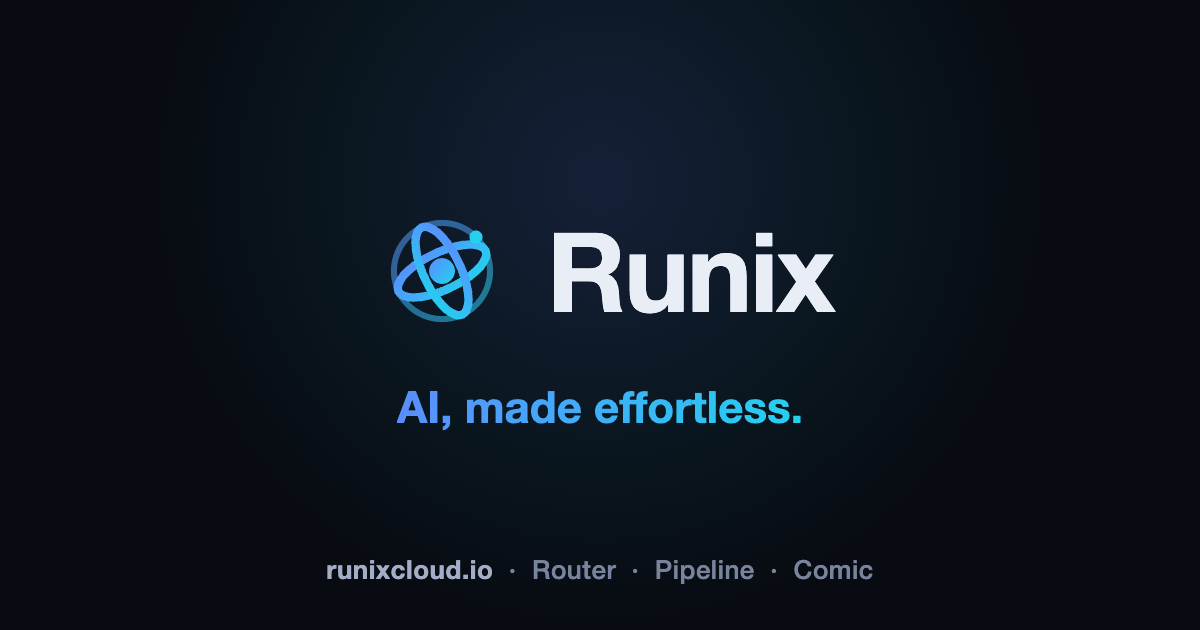
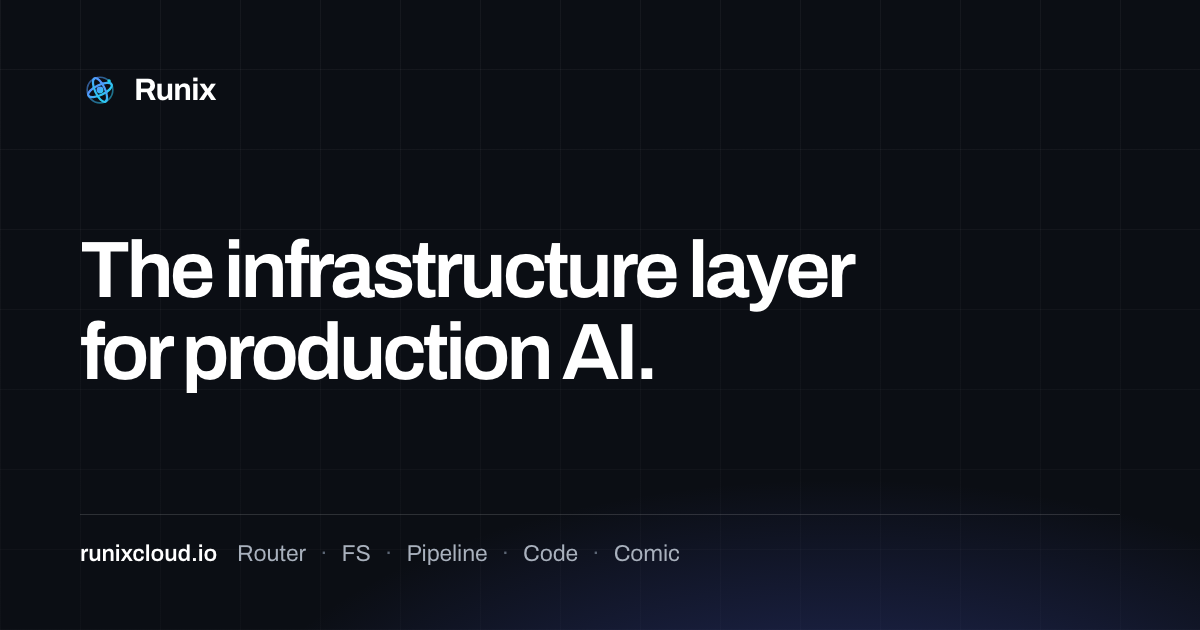
brand cover with the new headline and all five products; five storage terms in the glossary
The home page's share card still said "AI, made effortless." and listed
three products. The glossary gains AI file system, POSIX semantics,
multi-tier cache, CSI driver and KV cache offload, each with how to check
it and the mistake that is easy to make.

Changed region(s): [[0.0617, 0.0905, 0.7092, 0.6937], [0.0617, 0.8444, 1.0, 1.0], [0.0617, 0.1206, 0.185, 0.181]]

diff --git a/glossary.html b/glossary.html
@@ -143,6 +143,41 @@
       "description": "Recording enough about each request — latency, tokens, model, outcome, request id — to answer questions after the fact, without hoarding content you should not keep.",
       "url": "https://runixcloud.io/glossary#observability",
       "inDefinedTermSet": "https://runixcloud.io/glossary"
+    },
+    {
+      "@type": "DefinedTerm",
+      "name": "AI file system",
+      "description": "A file system built for how AI workloads read data: many readers, large datasets and frequent checkpoints. It is usually layered over object storage with a cache in front, so data is read through a path instead of fetched object by object.",
+      "url": "https://runixcloud.io/glossary#ai-file-system",
+      "inDefinedTermSet": "https://runixcloud.io/glossary"
+    },
+    {
+      "@type": "DefinedTerm",
+      "name": "POSIX semantics",
+      "description": "The file behaviour code written for a local disk expects: open, read, write, seek, atomic rename, directory listing and permissions.",
+      "url": "https://runixcloud.io/glossary#posix-semantics",
+      "inDefinedTermSet": "https://runixcloud.io/glossary"
+    },
+    {
+      "@type": "DefinedTerm",
+      "name": "Multi-tier cache",
+      "description": "A cache spread over memory, SSD and HDD on the worker nodes, which promotes hot data to faster tiers and falls back to the bucket for anything it does not hold.",
+      "url": "https://runixcloud.io/glossary#multi-tier-cache",
+      "inDefinedTermSet": "https://runixcloud.io/glossary"
+    },
+    {
+      "@type": "DefinedTerm",
+      "name": "CSI driver",
+      "description": "The Kubernetes Container Storage Interface plugin that turns a PersistentVolumeClaim into a volume mounted inside a pod.",
+      "url": "https://runixcloud.io/glossary#csi-driver",
+      "inDefinedTermSet": "https://runixcloud.io/glossary"
+    },
+    {
+      "@type": "DefinedTerm",
+      "name": "KV cache offload",
+      "description": "Moving an LLM's attention key-value cache out of GPU memory, into host memory or a shared storage tier, so a prompt prefix computed once can be reused instead of recomputed.",
+      "url": "https://runixcloud.io/glossary#kv-cache-offload",
+      "inDefinedTermSet": "https://runixcloud.io/glossary"
     }
   ]
 }
@@ -210,15 +245,20 @@
 <nav class="doc-toc" aria-labelledby="lookup-toc">
   <p id="lookup-toc" class="toc-title">Jump to a term</p>
   <ul>
+    <li><a href="#ai-file-system">AI file system</a></li>
     <li><a href="#blast-radius">Blast radius</a></li>
     <li><a href="#circuit-breaker">Circuit breaker</a></li>
     <li><a href="#cost-attribution">Cost attribution</a></li>
+    <li><a href="#csi-driver">CSI driver</a></li>
     <li><a href="#deduplication">Deduplication</a></li>
     <li><a href="#failover">Failover</a></li>
+    <li><a href="#kv-cache-offload">KV cache offload</a></li>
     <li><a href="#llm-gateway">LLM gateway</a></li>
     <li><a href="#llm-router">LLM router</a></li>
+    <li><a href="#multi-tier-cache">Multi-tier cache</a></li>
     <li><a href="#observability">Observability (for LLM traffic)</a></li>
     <li><a href="#pii-masking">PII masking</a></li>
+    <li><a href="#posix-semantics">POSIX semantics</a></li>
     <li><a href="#prompt-caching">Prompt caching</a></li>
     <li><a href="#rate-limit">Rate limit (429)</a></li>
     <li><a href="#retry-budget">Retry budget</a></li>
@@ -317,6 +357,36 @@
 <p><strong>How you would check it.</strong> Pick a past incident and check whether the logs you keep would have explained it.</p>
 <p><strong>Where people go wrong.</strong> Logging whole prompts and responses by default. That is a data-retention liability, and it is rarely the field you needed.</p>
 <p class="g-more"><a href="/blog/llm-observability">What to Log for LLM Traffic, and What Not To</a></p>
+
+<h2 id="ai-file-system">AI file system</h2>
+<p>A file system built for how AI workloads read data: many readers, large datasets and frequent checkpoints. It is usually layered over object storage with a cache in front, so data is read through a path instead of fetched object by object.</p>
+<p><strong>How you would check it.</strong> Point an existing data loader at the mount without changing its code, then compare the second epoch's read time with the first. The cache should make the difference visible.</p>
+<p><strong>Where people go wrong.</strong> Treating it as a replacement for the bucket. The bucket stays the durable copy; the file system is how the data is read.</p>
+<p class="g-more"><a href="/fs">The AI file system for object storage</a></p>
+
+<h2 id="posix-semantics">POSIX semantics</h2>
+<p>The file behaviour code written for a local disk expects: open, read, write, seek, atomic rename, directory listing and permissions.</p>
+<p><strong>How you would check it.</strong> Run an atomic rename and a git status against the mount. Both depend on semantics that plain object storage does not have.</p>
+<p><strong>Where people go wrong.</strong> Assuming every object-storage mount provides them. Many read-mostly mounts do not support in-place modification or atomic rename, which is fine for a dataset and fatal for an agent's workspace.</p>
+<p class="g-more"><a href="/docs/fs">Runix FS: quick start</a></p>
+
+<h2 id="multi-tier-cache">Multi-tier cache</h2>
+<p>A cache spread over memory, SSD and HDD on the worker nodes, which promotes hot data to faster tiers and falls back to the bucket for anything it does not hold.</p>
+<p><strong>How you would check it.</strong> Read the same large file twice. The second read should not reach the bucket at all, which the object store's own request metrics will show.</p>
+<p><strong>Where people go wrong.</strong> Sizing the cache to the whole dataset. It needs to hold the working set: what the job reads repeatedly.</p>
+<p class="g-more"><a href="/fs">The AI file system for object storage</a></p>
+
+<h2 id="csi-driver">CSI driver</h2>
+<p>The Kubernetes Container Storage Interface plugin that turns a PersistentVolumeClaim into a volume mounted inside a pod.</p>
+<p><strong>How you would check it.</strong> Create a few hundred claims at once and time how long they take to bind. Provisioning that calls a cloud API for every volume slows down and runs into rate limits.</p>
+<p><strong>Where people go wrong.</strong> Using block volumes for per-pod workspaces at high density. Nodes have attachment limits, and they are reached long before the CPU runs out.</p>
+<p class="g-more"><a href="/docs/fs">Runix FS: quick start</a></p>
+
+<h2 id="kv-cache-offload">KV cache offload</h2>
+<p>Moving an LLM's attention key-value cache out of GPU memory, into host memory or a shared storage tier, so a prompt prefix computed once can be reused instead of recomputed.</p>
+<p><strong>How you would check it.</strong> Send the same long prefix to two different replicas and compare time to first token. With a shared tier, the second request should skip most of the prefill.</p>
+<p><strong>Where people go wrong.</strong> Counting only the GPU's own memory. A prefix cache that dies with one replica does not help a router that sends the next request somewhere else.</p>
+<p class="g-more"><a href="/fs">The AI file system for object storage</a></p>
 
 <h2 id="missing">Something missing?</h2>
 <p>If a term left you guessing, tell us and it belongs here — <!--email_off--><a href="mailto:contact@runixcloud.io">contact@runixcloud.io</a><!--/email_off-->.</p>

diff --git a/index.html b/index.html
@@ -21,11 +21,11 @@
 <meta property="og:type" content="website">
 <meta property="og:url" content="https://runixcloud.io/">
 <meta property="og:site_name" content="Runix">
-<meta property="og:image" content="https://runixcloud.io/assets/og-cover.png?v=12">
+<meta property="og:image" content="https://runixcloud.io/assets/og-cover.png?v=13">
 <meta property="og:image:width" content="1200">
 <meta property="og:image:height" content="630">
 <meta name="twitter:card" content="summary_large_image">
-<meta name="twitter:image" content="https://runixcloud.io/assets/og-cover.png?v=12">
+<meta name="twitter:image" content="https://runixcloud.io/assets/og-cover.png?v=13">
 <link rel="icon" href="assets/favicon.svg?v=11" type="image/svg+xml">
 <link rel="preload" href="assets/fonts/archivo-latin.woff2?v=2" as="font" type="font/woff2" crossorigin>
 <link rel="stylesheet" href="assets/style.css?v=60">
@@ -39,7 +39,7 @@
   "alternateName": "Runix",
   "url": "https://runixcloud.io/",
   "logo": "https://runixcloud.io/assets/logo.svg?v=11",
-  "image": "https://runixcloud.io/assets/og-cover.png?v=12",
+  "image": "https://runixcloud.io/assets/og-cover.png?v=13",
   "description": "Runix is AI infrastructure for production teams: a compliant OpenAI-compatible LLM gateway, an AI-native file system on your object storage, and data tooling.",
   "address": {
     "@type": "PostalAddress",
